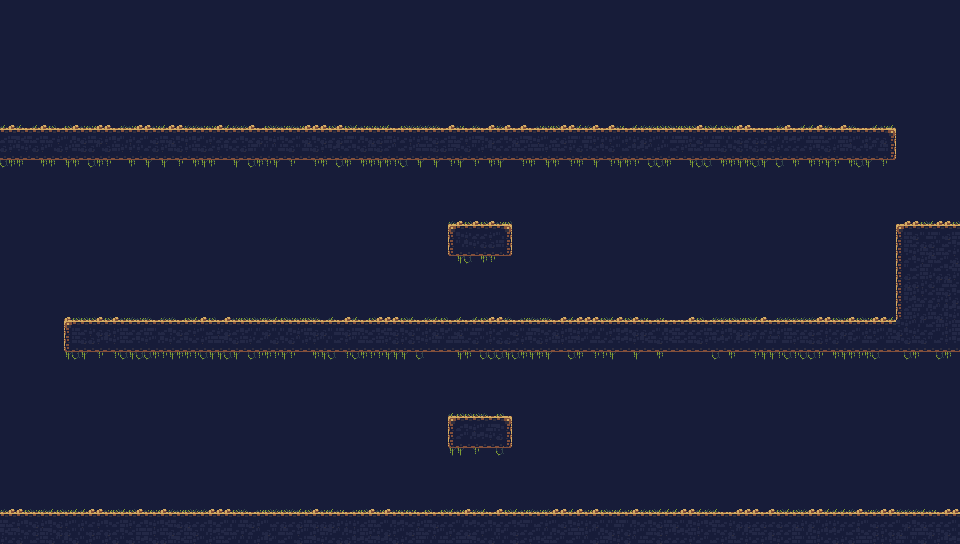
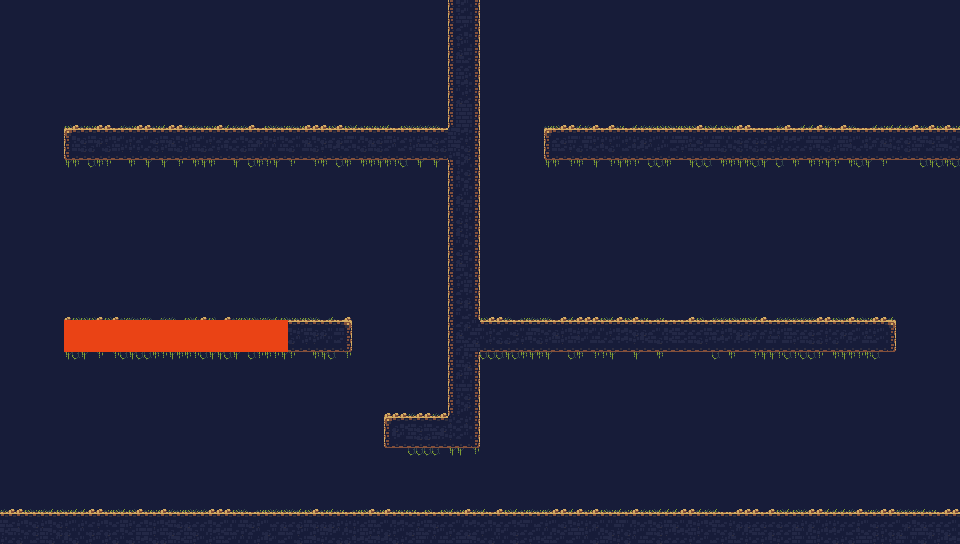
att

diff --git a/Level2.java b/Level2.java
@@ -12,12 +12,24 @@ public class Level2 extends Level
         carregarColisoes("Colisao_fase1.1.csv");
         setBackground("fase1.1.png");
         addObject(new Agent(5, 6, 16, "a", "d", "w", "s", "zig"), 25, 484);
-        MovingPlatform plataform1 = new MovingPlatform(0, 5 * TILE_SIZE);
+        MovingPlatform plataform1 = new MovingPlatform(0, -6 * TILE_SIZE);
+        MovingPlatform plataform2 = new MovingPlatform(0, 5 * TILE_SIZE);
+        MovingPlatform plataform3 = new MovingPlatform(0, 5 * TILE_SIZE);
+        Door door1 = new Door(0);
         
-        addObject(plataform1, 31, 332);
-        addObject(new Computador(new Door[]{},new MovingPlatform[]{plataform1}), 900, 482);
-        addObject(new Dog(),800,295);
-        addObject(new Soldier(),25,100);
+        addObject(plataform1, 31, 333);
+        addObject(plataform2, 928, 333);
+        addObject(plataform3, 512, 142);
+        addObject(door1,450,475);
+        addObject(new Computador(new Door[]{},new MovingPlatform[]{plataform1}), 200, 482);
+        addObject(new Computador(door1), 420, 100);
+        //addObject(new Computador(door1), 420, 500);
+        addObject(new Computador(new Door[]{},new MovingPlatform[]{plataform2}), 700, 482);
+        addObject(new Computador(new Door[]{},new MovingPlatform[]{plataform3}), 580, 295);
+        
+        addObject(new Dog(),512,295);
+        addObject(new Dog(),920,100);
+        //addObject(new Soldier(),25,100);
     
     }
     private void carregarColisoes(String caminhoCSV)

diff --git a/Level3.java b/Level3.java
@@ -1,0 +1,19 @@
+import greenfoot.*;  // (World, Actor, GreenfootImage, Greenfoot and MouseInfo)
+
+/**
+ * Write a description of class Level3 here.
+ * 
+ * @author (your name) 
+ * @version (a version number or a date)
+ */
+public class Level3 extends Level
+{
+
+    /**
+     * Constructor for objects of class Level3.
+     * 
+     */
+    public Level3()
+    {
+    }
+}
